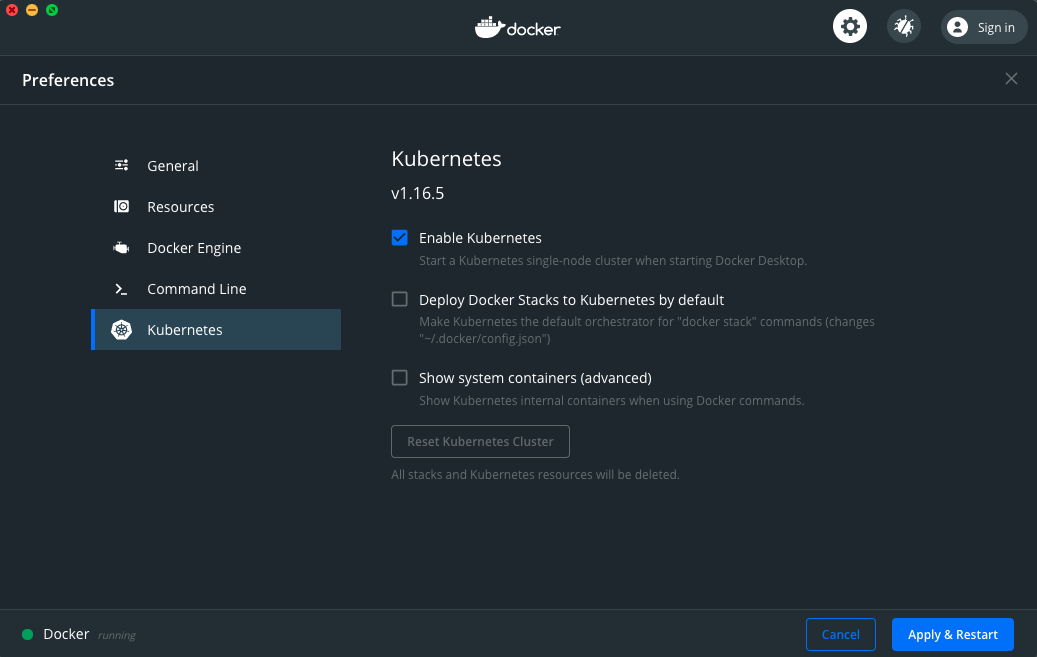
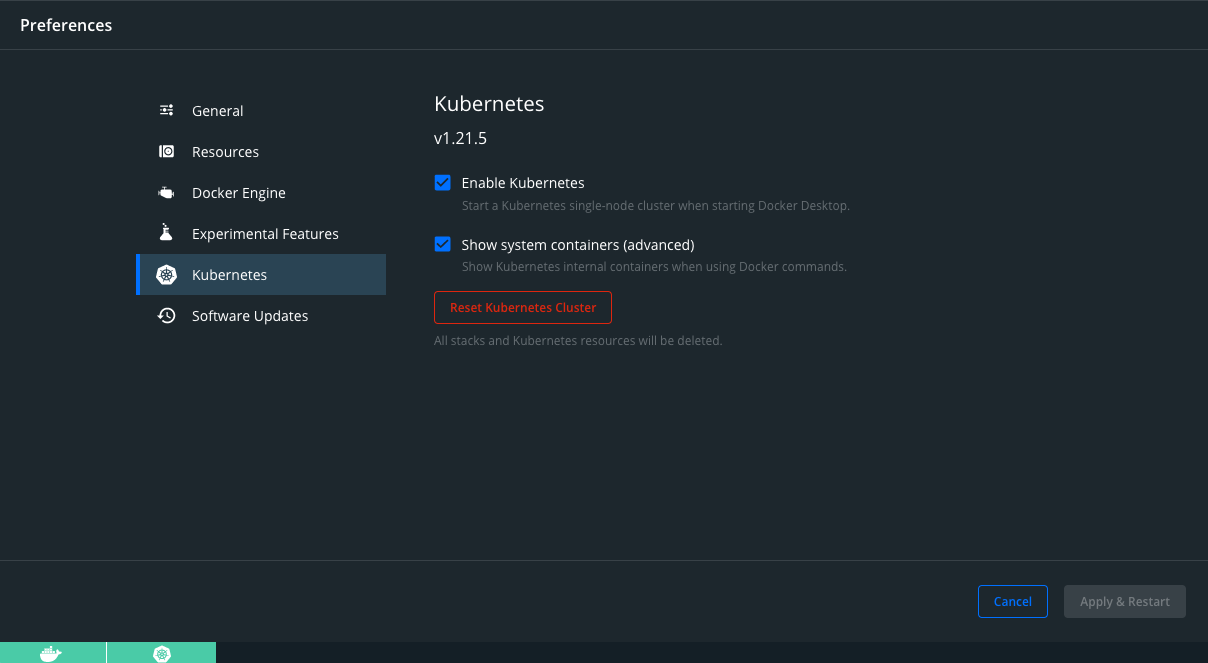
Update docker desktop instructions

diff --git a/docs/source/recipes/deploying-kubeflow-locally-for-dev.md b/docs/source/recipes/deploying-kubeflow-locally-for-dev.md
@@ -23,9 +23,9 @@ we will be deploying Kubeflow Pipelines on Kubernetes using Docker Desktop. Note
 ONLY install the Kubeflow Pipelines component.
 
 ## Requirements
-- Docker Desktop
-    - Available for [MacOS](https://hub.docker.com/editions/community/docker-ce-desktop-mac) and 
-                    [Windows](https://hub.docker.com/editions/community/docker-ce-desktop-windows)
+- Docker Desktop v4.1.0 and undder
+    - Available for [MacOS](https://docs.docker.com/desktop/mac/release-notes/#docker-desktop-410) and 
+                    [Windows](https://docs.docker.com/desktop/windows/release-notes/#docker-desktop-410)
 - kubectl
     - Available for [MacOS](https://kubernetes.io/docs/tasks/tools/install-kubectl/#install-kubectl-on-macos)
     - Note: Windows users should skip this step since Docker Desktop adds its own version of `kubectl` to `PATH`
@@ -48,9 +48,7 @@ In this example, we will be performing the steps on a MacOS system
 ![Elyra](../images/docker-desktop-k8s-menu.png)  
   
 4. `Docker Desktop` should now install a single node deployment of Kubernetes  
- on your system and configure your `kubectl` to the correct local kubernetes cluster  
-![Elyra](../images/docker-desktop-in-progress.png)  
-![Elyra](../images/docker-desktop-complete.png)  
+ on your system and configure your `kubectl` to the correct local kubernetes cluster
   
 5. Verify that your cluster is up and running and configured correctly by running  
 `kubectl get all --all-namespaces` and verifying that the Docker Desktop pods are present and in `Running` state   
@@ -61,10 +59,10 @@ In this example, we will be performing the steps on a MacOS system
 - Deploy Kubeflow  
 
 ```bash
-export PIPELINE_VERSION=1.4.0
+export PIPELINE_VERSION=1.7.1
 kubectl apply -k "github.com/kubeflow/pipelines/manifests/kustomize/cluster-scoped-resources?ref=$PIPELINE_VERSION"
 kubectl wait --for condition=established --timeout=60s crd/applications.app.k8s.io
-kubectl apply -k "github.com/elyra-ai/elyra/etc/kubernetes/kubeflow-pipelines?ref=master"
+kubectl apply -k "github.com/kubeflow/pipelines/manifests/kustomize/env/dev?ref=$PIPELINE_VERSION"
 ```
 - Get status of the Kubeflow deployment and ensure all pods are running before proceeding.  
 Deployment times vary from system to system so please be patient when the pods are starting up.
